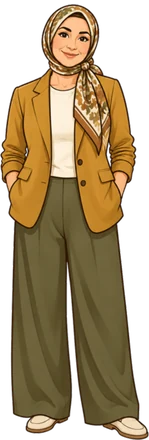
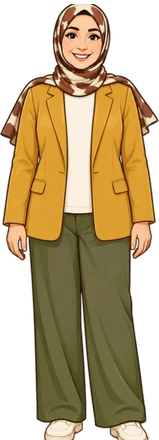
12. müşteri: fular atkı gibi omuzlarda, boyun ve göğüs arası kapalı
Claude-Session: https://claude.ai/code/session_01CqmBopmm2oAGpcb7ghL8DV

diff --git a/docs/lisanslar.md b/docs/lisanslar.md
@@ -17,7 +17,7 @@ yalnız yazılı tarif kullanıldı.
 | `public/gorseller/urunler/gazoz.webp` | Gazoz şişesi. 6 Kasım 2026'da Birlik Zeytin etiketinden (KKM, Kemal'in markası) renk ve şekil esinli, yazısız etiketle yeniden çizildi; "DK Lite çalışma" tasarımının 20. sayfası. İlk çizim: https://www.canva.com/M/MAHZYpAngJY | https://www.canva.com/M/MAHaJJ059oU (saydam: MAHaJJwDGiQ) |
 | `public/gorseller/musteriler/` | 10 müşteri, tam boy (baştan ayağa; 30 Ekim, belden yukarı çizimler örnek verilerek yeniden çizildi) | https://www.canva.com/M/MAHZZvKWZio (1–5), https://www.canva.com/M/MAHZZnt6WHU (6–10) |
 | `public/gorseller/musteriler/musteri-11.webp` … `musteri-20.webp` | 10 yeni müşteri (5 Kasım 2026 gecesi; farklı kökenler, ten renkleri, saçlar, yaşlar). Canva'nın resim üretme aracıyla yazıyla tarif edilerek çizildi, arka planı Canva'da silindi; "DK Lite çalışma (7. paket görselleri)" tasarımının 19. sayfası ("Yeni müşteriler"), Kemal'in izniyle | https://www.canva.com/M/MAHaFkfZWuE (11–15), https://www.canva.com/M/MAHaFuiDZGA (16–20); saydam hâlleri MAHaFg-nUxk, MAHaFoQyQAo |
-| `public/gorseller/musteriler/musteri-12.webp` (6 Kasım'da yeniden), `musteri-21.webp` | 12: fularlı orta yaşlı kadın (eski uzun elbiseli çizimin yerine; Kemal: "ferace sevmiyorum"); 21: yazmalı nene. Canva, yazıyla tarif edilerek; arka planı Canva'da silindi; "DK Lite çalışma" tasarımının 20. sayfası | https://www.canva.com/M/MAHaJBK4npc (12; saydam MAHaJGeJ300), https://www.canva.com/M/MAHaJEeUGBY (21; saydam MAHaJM-2C6g) |
+| `public/gorseller/musteriler/musteri-12.webp` (6 Kasım'da yeniden), `musteri-21.webp` | 12: fularlı orta yaşlı kadın (eski uzun elbiseli çizimin yerine; Kemal: "ferace sevmiyorum"); 21: yazmalı nene. Canva, yazıyla tarif edilerek; arka planı Canva'da silindi; "DK Lite çalışma" tasarımının 20. sayfası | https://www.canva.com/M/MAHaJXYWxlg (12, son hâli: fular atkı gibi omuzlarda, boyun kapalı; saydam MAHaJT1RjhU; 21. sayfa; ilk hâli MAHaJBK4npc), https://www.canva.com/M/MAHaJEeUGBY (21; saydam MAHaJM-2C6g) |
 | `public/gorseller/tezgah/dondurmaci.webp` | Tezgâhtaki dondurmacı (sarı tişört, mor önlük, mor kasket) | https://www.canva.com/M/MAHZYsbgjPQ |
 | `public/gorseller/kulah.webp` | Bantta dondurma topunun altındaki külah | https://www.canva.com/M/MAHZYtoyWcc |
 | `public/gorseller/bar/` | Bar rafındaki kafe eşyaları: kahve makinesi, bardaklar, şeker kavanozu, külah yığını, iki şurup şişesi, saksı, kâse | https://www.canva.com/M/MAHZYp3Zon8 |

diff --git a/docs/tasarim-belgesi.md b/docs/tasarim-belgesi.md
@@ -42,6 +42,7 @@ Kemal (6 Kasım): "Yazdıklarımı direkt yapma, ben sana tamam dediğimde toplu
 - **Hazır ürün etiketi:** gazoz şişesinde Birlik Zeytin etiketinden (KKM) esinli etiket: üstü kavisli pano, krem zemin, lacivert çerçeve, üstte kiremit alan, birkaç kabarcık; yazı, ağaç, ay yıldız yok. İleride gelecek şişe/kutu ürünler aynı etiket ailesinden.
 - **Can sınırı:** zamanla dolan can en çok 5. Hediyeler (günlük ödül, sandıktaki +1) 6'ya kadar çıkarır; 6'dayken gelen +1 boşa gider. "Canlar doldu" 5 yapar (6 varsa 6 kalır). 6. can altın kalp.
 - **Müşteriler:** 12. kişi yeniden çizildi: orta yaşlı, başı fular gibi şehirli eşarpla kapalı, hardal ceket, krem tişört, bol zeytin yeşili pantolon (Kemal: "ferace sevmiyorum"). 21. kişi: gevşek bağlı oyalı yazmalı nene. Toplam 21 kişi.
+- 12. kişi, sonra (Kemal: "Boyun göğüs arasının kapalı olması lazım. Fuları aşağı indir biraz, yanda bağlı olmasın, atkı gibi sağa sola atsın"): fular yanda düğümsüz, uçları atkı gibi iki omzun üstüne atılı; boyun ve göğüs arası kapalı. Önce/sonra: `docs/ekran/yeni-liste/fular-boyun-once-sonra.png`.
 - Bilgisayarda telefon boyutunda denendi; gerçek telefonda denenmedi. Ekran görüntüleri: `docs/ekran/yeni-liste/`, `docs/ekran/denetim/`.
 
 ### 0.35 Müşteri çeşitliliği: desenler ve 10 yeni kişi (Kemal, 5 Kasım 2026 gecesi; öneri)
